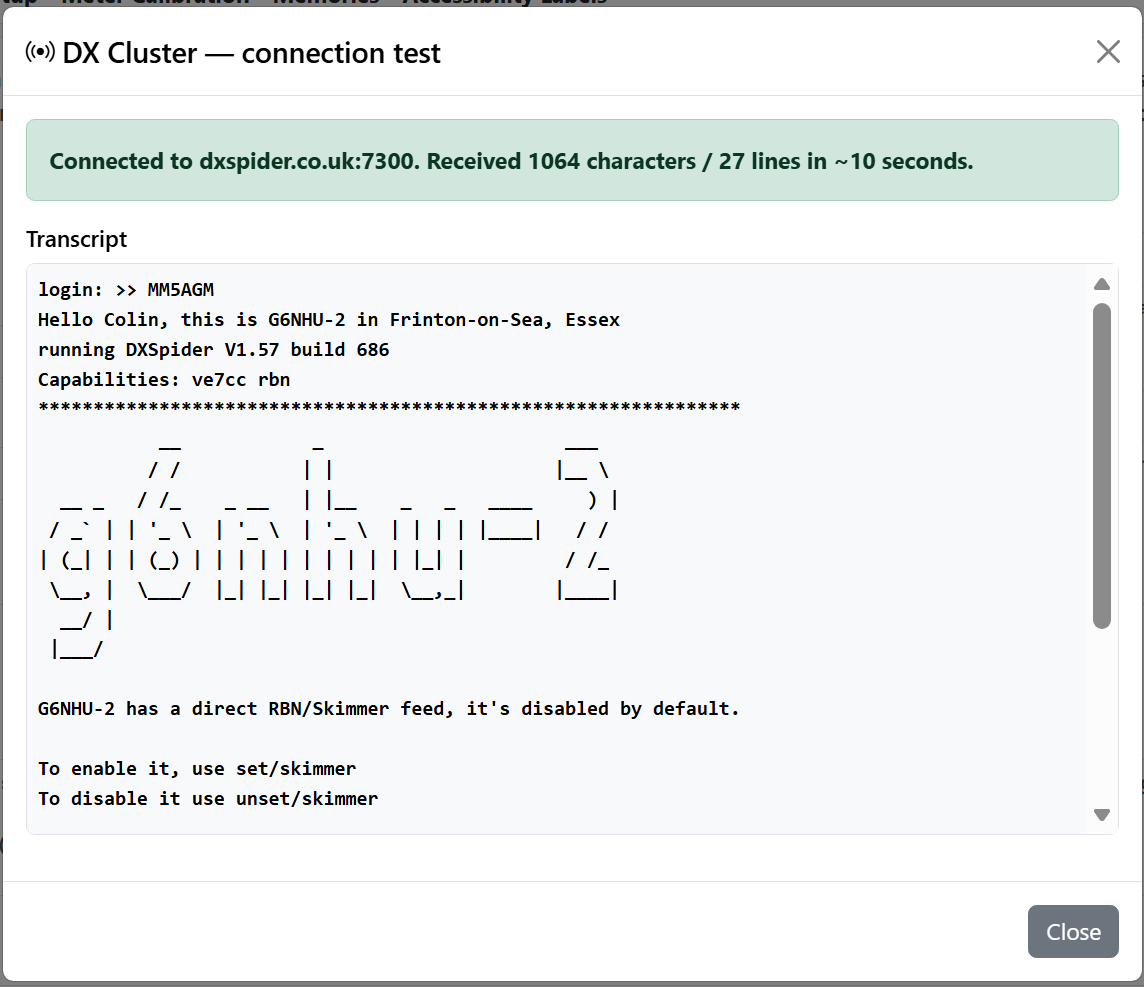
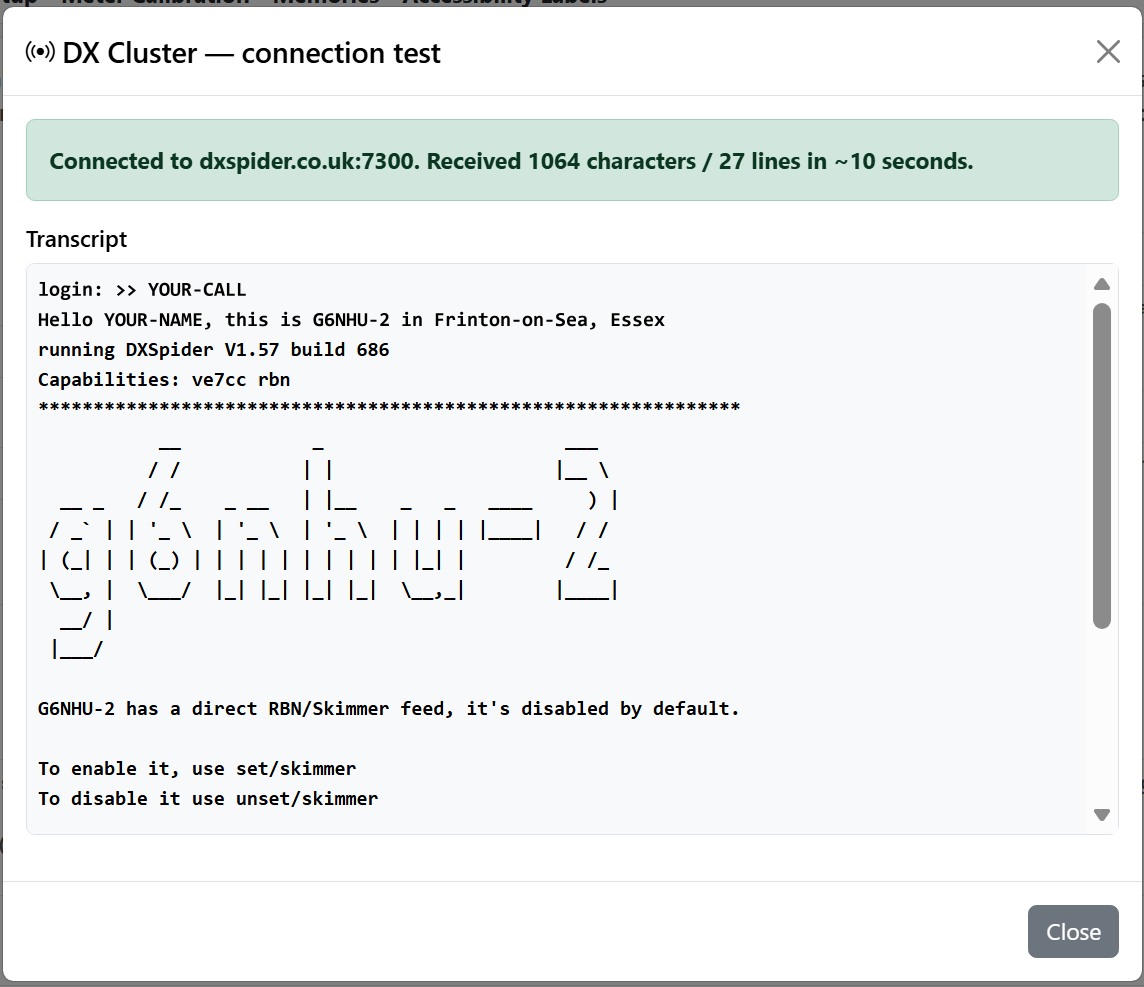
DX cluster screenshot: show placeholders instead of the author's details
The connection test picture in section 6.6 now reads YOUR-CALL and YOUR-NAME,
and the YWC one also shows the new post-login examples. The picture no longer
shows anyone's login, so the manual's note about that goes.

Changed region(s): [[0.0306, 0.2736, 0.5813, 0.3343]]

diff --git a/USER_MANUAL.md b/USER_MANUAL.md
@@ -1435,8 +1435,6 @@ The app uses a generous parser that accepts spot lines from AR-Cluster, CC-Clust
 
 ![Successful Test cluster connection against dxspider.co.uk:7300 — the modal shows the full login transcript including the cluster's welcome banner, and the button below has turned solid green with the "Cluster connection successful" label](pictures/Settings_Test_Cluster.png)
 
-That picture shows my own login (MM5AGM, Colin). You'll see your own callsign and name.
-
 Outcomes:
 
 - 🟢 **Green button + "Cluster connection successful"** — the cluster accepted the connection and sent data. Safe to Save Settings.
